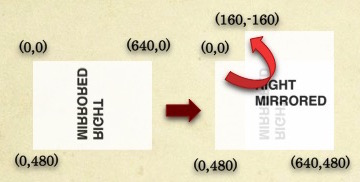
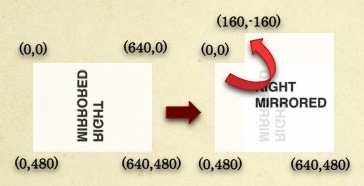
update

diff --git a/content/2016/01/06/orient.md b/content/2016/01/06/orient.md
@@ -15,7 +15,9 @@ title = "ImageMagick の -auto-orient でオフセットがズレる件"
    * http://blog.cybozu.io/entry/2016/01/06/080000
 
 ```
-ただ、ImageMagick といえど Orientation 画像の変換でちょっと怪しい挙動があります。上記サンプル画像の right-mirrored.jpg を -auto-orient をつけて png に変換すると、offset 情報がおかしくなります。
+ただ、ImageMagick といえど Orientation 画像の変換でちょっと怪しい挙動があります。
+上記サンプル画像の right-mirrored.jpg を -auto-orient をつけて png に変換すると、
+offset 情報がおかしくなります。
 
 $ convert right-mirrored.jpg -auto-orient out.png
 $ identify out.png
@@ -47,7 +49,7 @@ out.png PNG 480x640 640x480+160-160 8-bit sRGB 256c 13.9KB 0.000u 0:00.000
 
 <center> <img src="/2016/01/06/1.jpg" /> </center>
 
-画像を単独で表示する場合は問題ないのですが、例えば HTML ドキュメントにレイアウトされる場合に、期待する場所より右上に配置されるかもしれません。(未確認)
+画像を単独で表示する場合は問題ないのですが、例えば HTML ドキュメントにレイアウトされる場合に、期待する場所は左下で、実際んは右上に方に配置されるかもしれません。(未確認)
 
 <center> <img src="/2016/01/06/2.jpg" /> </center>
 

diff --git a/content/2016/01/06/gray.md b/content/2016/01/06/gray.md
@@ -48,7 +48,7 @@ $ diff -rwb  ImageMagick-6.8.0-[78]/coders/png.c
 
 # PNG8
 
-もう一点、グレー形式JPEG を PNG に変換するとパレット形式(PNG)になるとの事ですが実はバージョンに寄ります。気まぐれですみません。
+もう一点、グレー形式JPEG を PNG に変換するとパレット形式(PNG)になるとの事ですが実はバージョンに依ります。気まぐれで本当にすみません。
 
 直近だとこんな対応。
 
@@ -78,5 +78,7 @@ $ diff -rwb  ImageMagick-6.8.0-[78]/coders/png.c
 6.8.0-8 | PALETTE (PNG8)
 6.8.0-9 | PALETTE (PNG8)
 6.8.0-10 | PALETTE (PNG8)
+
+あれれ。。
 
 多分ですけど。グレー画像が暗くなる時に使った ImageMagick と、パレット形式なのを確認したバージョンが違うのではないかなーと思います。
